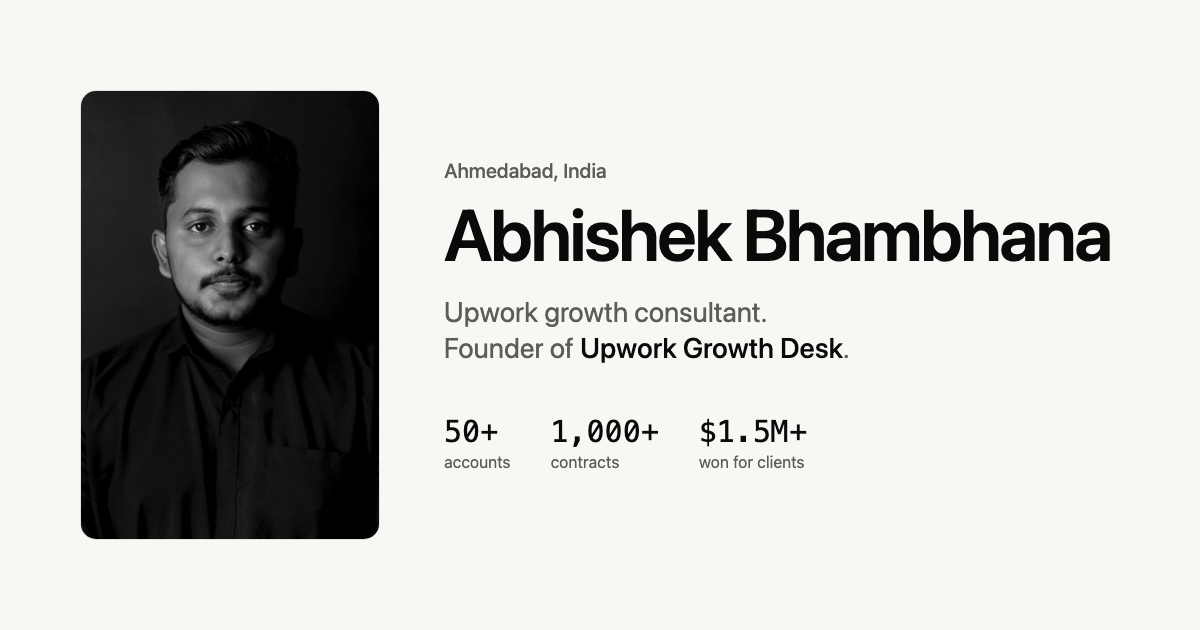
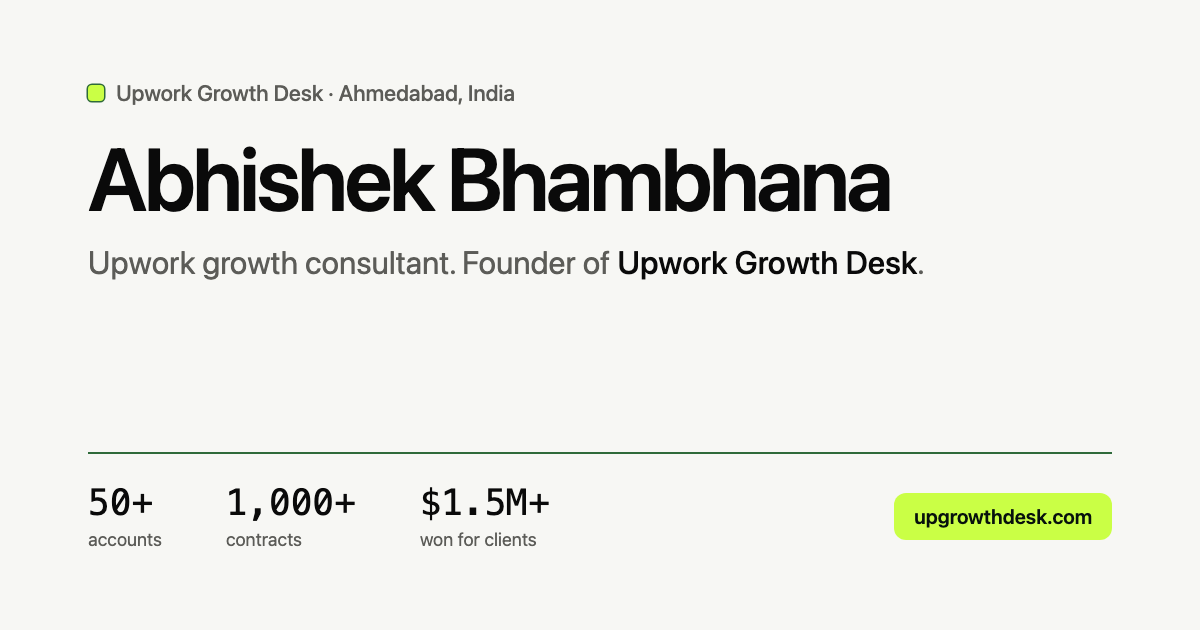
Remove photo, add UGD green accent, Scout card and results graphic

diff --git a/index.html b/index.html
@@ -23,7 +23,7 @@
 <meta name="twitter:card" content="summary_large_image">
 <meta name="theme-color" content="#F7F7F4" media="(prefers-color-scheme: light)">
 <meta name="theme-color" content="#131209" media="(prefers-color-scheme: dark)">
-<link rel="icon" href="assets/abhishek-bhambhana-square.jpg">
+<link rel="icon" href="assets/mark.svg" type="image/svg+xml">
 <link rel="preconnect" href="https://fonts.googleapis.com">
 <link rel="preconnect" href="https://fonts.gstatic.com" crossorigin>
 <link href="https://fonts.googleapis.com/css2?family=Geist:wght@400;500;600&family=Geist+Mono:wght@400;500&display=swap" rel="stylesheet">
@@ -39,7 +39,6 @@
       "familyName": "Bhambhana",
       "jobTitle": "Upwork Growth Consultant and Founder of Upwork Growth Desk",
       "description": "Upwork growth consultant and founder of Upwork Growth Desk, based in Ahmedabad, India. Has run Upwork accounts since 2019: 50+ accounts, 1,000+ contracts, $1.5M+ won for clients. Previously in go to market and tech sales, including fundraising work at MonkeyBox and growth and investor work at UnitPay.",
-      "image": "https://abhishekbhambhana.github.io/assets/abhishek-bhambhana.jpg",
       "url": "https://abhishekbhambhana.github.io/",
       "address": {"@type": "PostalAddress", "addressLocality": "Ahmedabad", "addressRegion": "Gujarat", "addressCountry": "IN"},
       "worksFor": {"@id": "https://upgrowthdesk.com/#org"},
@@ -94,19 +93,19 @@
 <style>
 :root{
   --bg:#F7F7F4; --surface:#FFFFFF; --ink:#0A0A0A; --muted:#5C5C58; --faint:#8A8A85; --line:#E3E3DE;
-  --head-from:#000000; --head-to:#666666; --accent:#FF5A1F;
+  --head-from:#000000; --head-to:#666666; --accent:#2F6A3A; --lime:#CAFF45; --on-lime:#07110D;
   --ease:cubic-bezier(0.22,1,0.36,1);
   --s1:4px; --s2:8px; --s3:12px; --s4:16px; --s5:24px; --s6:32px; --s7:40px; --s8:48px; --s9:64px; --s10:80px; --s11:96px;
 }
 @media (prefers-color-scheme: dark){
   :root:not([data-theme="light"]){
     --bg:#131209; --surface:#1F1F1F; --ink:#F2F2EE; --muted:#A3A39C; --faint:#76766F; --line:#313131;
-    --head-from:#FFFFFF; --head-to:#9B9B9B; --accent:#FF6A33;
+    --head-from:#FFFFFF; --head-to:#9B9B9B; --accent:#CAFF45; --lime:#CAFF45; --on-lime:#07110D;
   }
 }
 :root[data-theme="dark"]{
   --bg:#131209; --surface:#1F1F1F; --ink:#F2F2EE; --muted:#A3A39C; --faint:#76766F; --line:#313131;
-  --head-from:#FFFFFF; --head-to:#9B9B9B; --accent:#FF6A33;
+  --head-from:#FFFFFF; --head-to:#9B9B9B; --accent:#CAFF45; --lime:#CAFF45; --on-lime:#07110D;
 }
 *{box-sizing:border-box;margin:0;padding:0}
 html{scroll-behavior:smooth;-webkit-text-size-adjust:100%}
@@ -139,7 +138,8 @@ p,li,dd{text-wrap:pretty}
 
 /* nav */
 .nav{position:fixed;top:var(--s4);left:50%;transform:translateX(-50%);z-index:50;display:flex;align-items:center;gap:var(--s5);padding:var(--s2) var(--s2) var(--s2) var(--s4);border:1px solid var(--line);border-radius:16px;background:color-mix(in srgb,var(--bg) 78%,transparent);backdrop-filter:blur(14px);-webkit-backdrop-filter:blur(14px);white-space:nowrap}
-.nav .name{text-decoration:none}
+.nav .name{text-decoration:none;display:inline-flex;align-items:center;gap:var(--s2)}
+.mk{width:10px;height:10px;border-radius:3px;background:var(--lime);box-shadow:0 0 0 1px var(--accent)}
 .nav ul{display:flex;gap:var(--s4);list-style:none}
 .nav ul a{white-space:nowrap;color:var(--muted);text-decoration:none;transition:color 200ms var(--ease)}
 .nav ul a:hover{color:var(--ink)}
@@ -152,7 +152,7 @@ p,li,dd{text-wrap:pretty}
 
 /* hero */
 .hero{padding:160px 0 var(--s10)}
-.hero-grid{display:grid;grid-template-columns:1fr 320px;gap:var(--s9);align-items:end}
+.hero-grid{display:grid;grid-template-columns:1fr 380px;gap:var(--s9);align-items:end}
 .eyebrow{color:var(--muted);margin-bottom:var(--s5)}
 .hero h1{max-width:680px}
 .hero h1 .ln{display:block;overflow:hidden;padding-bottom:6px;margin-bottom:-6px}
@@ -161,8 +161,6 @@ p,li,dd{text-wrap:pretty}
 .hero .sub strong{color:var(--ink);font-weight:500}
 .hero .cta{display:flex;align-items:center;gap:var(--s5);margin-top:var(--s6);flex-wrap:wrap}
 .hero .proof{color:var(--muted);max-width:360px}
-.portrait{border-radius:16px;overflow:hidden;border:1px solid var(--line);background:var(--surface);aspect-ratio:2/3}
-.portrait img{width:100%;height:100%;object-fit:cover}
 .portrait-cap{margin-top:var(--s3);color:var(--faint)}
 
 .stats{display:grid;grid-template-columns:repeat(4,1fr);border:1px solid var(--line);border-radius:16px;background:var(--surface)}
@@ -258,10 +256,6 @@ footer .wrap{display:flex;justify-content:space-between;gap:var(--s4);flex-wrap:
 .js .hero h1 .ln:nth-child(3) .in{animation-delay:300ms}
 @keyframes up{from{opacity:0;transform:translateY(16px)}to{opacity:1;transform:none}}
 @keyframes lineUp{from{transform:translateY(105%)}to{transform:none}}
-.js .portrait{animation:unclip 1100ms var(--ease) 200ms both}
-.js .portrait img{animation:settle 1400ms var(--ease) 200ms both}
-@keyframes unclip{from{clip-path:inset(100% 0 0 0 round 16px)}to{clip-path:inset(0 0 0 0 round 16px)}}
-@keyframes settle{from{transform:scale(1.12)}to{transform:scale(1)}}
 .js .portrait-cap{animation:up 700ms var(--ease) 700ms both}
 
 .marquee{margin-top:var(--s8);overflow:hidden;border-top:1px solid var(--line);border-bottom:1px solid var(--line);-webkit-mask-image:linear-gradient(90deg,transparent,#000 8%,#000 92%,transparent);mask-image:linear-gradient(90deg,transparent,#000 8%,#000 92%,transparent)}
@@ -289,6 +283,51 @@ footer .wrap{display:flex;justify-content:space-between;gap:var(--s4);flex-wrap:
 .process.on .steps li{opacity:1;transform:none}
 .process.on .steps .dot{background:var(--accent);border-color:var(--accent)}
 
+
+/* UGD Scout card */
+.scout{border:1px solid var(--line);border-radius:16px;background:var(--surface);padding:var(--s5);box-shadow:0 1px 0 var(--line),0 24px 48px -32px rgba(7,17,13,.35)}
+.sc-top{display:flex;justify-content:space-between;align-items:center;color:var(--faint);margin-bottom:var(--s4)}
+.sc-brand{display:inline-flex;align-items:center;gap:var(--s2);color:var(--ink);font-weight:600}
+.sc-brand i{width:8px;height:8px;border-radius:2px;background:var(--lime);box-shadow:0 0 0 1px var(--accent)}
+.sc-meta{color:var(--muted);margin-top:var(--s1)}
+.sc-mid{display:grid;grid-template-columns:112px 1fr;gap:var(--s5);align-items:center;margin:var(--s5) 0}
+.ring{position:relative;width:112px;height:112px}
+.ring svg{width:100%;height:100%;transform:rotate(-90deg)}
+.ring circle{fill:none;stroke-width:8}
+.ring .rb{stroke:var(--line)}
+.ring .rf{stroke:var(--accent);stroke-linecap:round;stroke-dasharray:100;stroke-dashoffset:13}
+.rn{position:absolute;inset:0;display:flex;align-items:baseline;justify-content:center;padding-top:38px;gap:2px}
+.rn .mono{font-size:30px;line-height:36px;font-weight:500}
+.rn small{color:var(--faint)}
+.sc-bars{list-style:none;display:flex;flex-direction:column;gap:var(--s3)}
+.sc-bars li{display:grid;grid-template-columns:48px 1fr 24px;gap:var(--s2);align-items:center;color:var(--muted)}
+.bt{height:6px;border-radius:3px;background:var(--line);overflow:hidden}
+.bf{display:block;height:100%;width:var(--v);background:var(--accent);border-radius:3px;transform-origin:left}
+.bv{text-align:right;color:var(--ink)}
+.sc-foot{display:flex;justify-content:space-between;align-items:center;gap:var(--s3);flex-wrap:wrap;padding-top:var(--s4);border-top:1px solid var(--line)}
+.chip{background:var(--lime);color:var(--on-lime);padding:var(--s1) var(--s3);border-radius:8px}
+.sc-next{color:var(--muted)}
+.js .scout{animation:up 900ms var(--ease) 260ms both}
+.js .ring .rf{animation:ring 1400ms var(--ease) 700ms both}
+@keyframes ring{from{stroke-dashoffset:100}to{stroke-dashoffset:13}}
+.js .bf{animation:bar 1000ms var(--ease) both;animation-delay:calc(800ms + var(--i) * 90ms)}
+@keyframes bar{from{transform:scaleX(0)}to{transform:scaleX(1)}}
+.js .chip{animation:pop 500ms var(--ease) 1700ms both}
+@keyframes pop{from{opacity:0;transform:scale(.92)}to{opacity:1;transform:none}}
+
+/* results */
+.results{margin-top:var(--s6);border:1px solid var(--line);border-radius:16px;background:var(--surface);padding:var(--s5);display:flex;flex-direction:column;gap:var(--s5)}
+.rs{display:grid;grid-template-columns:180px 1fr 170px;gap:var(--s4);align-items:center}
+.rs .rl{color:var(--ink)}
+.rs .rv{color:var(--ink);text-align:right;font-size:14px;white-space:nowrap}
+.rbars{display:flex;flex-direction:column;gap:6px}
+.rbars span{display:block;height:8px;border-radius:4px;transform-origin:left;transform:scaleX(0);transition:transform 1100ms var(--ease)}
+.rbars .b0{background:var(--line);width:var(--a)}
+.rbars .b1{background:var(--accent);width:var(--b);transition-delay:250ms}
+.reveal.in .rbars span,.no-js .rbars span{transform:scaleX(1)}
+.rkey{display:flex;gap:var(--s4);color:var(--faint)}
+.rkey i{display:inline-block;width:10px;height:10px;border-radius:2px;margin-right:6px;vertical-align:-1px}
+
 /* reveal */
 .reveal{opacity:0;transform:translateY(32px);transition:opacity 700ms var(--ease),transform 700ms var(--ease)}
 .reveal.in{opacity:1;transform:none}
@@ -296,7 +335,7 @@ footer .wrap{display:flex;justify-content:space-between;gap:var(--s4);flex-wrap:
 
 @media (max-width:900px){
   .hero-grid{grid-template-columns:1fr;gap:var(--s7)}
-  .portrait{max-width:280px;order:-1}
+  .scout-wrap{max-width:420px}
   .block-grid{grid-template-columns:1fr;gap:var(--s4)}
   .label{position:static}
   .quotes{grid-template-columns:1fr}
@@ -313,6 +352,11 @@ footer .wrap{display:flex;justify-content:space-between;gap:var(--s4);flex-wrap:
   .stat:nth-child(n+3){border-top:1px solid var(--line)}
   .repos{grid-template-columns:1fr}
   .rows li{grid-template-columns:1fr;gap:var(--s1)}
+  .rs{grid-template-columns:1fr;gap:var(--s2)}
+  .rs .rv{text-align:left}
+  .sc-mid{grid-template-columns:96px 1fr}
+  .ring{width:96px;height:96px}
+  .rn{padding-top:30px}
   section.block{padding:var(--s9) 0}
   .nav{gap:var(--s3)}
   .steps{grid-template-columns:1fr;gap:var(--s5);padding-left:var(--s6)}
@@ -323,7 +367,7 @@ footer .wrap{display:flex;justify-content:space-between;gap:var(--s4);flex-wrap:
   .marquee span{font-size:18px;line-height:28px;padding:var(--s4) var(--s5)}
 }
 @media (prefers-reduced-motion: reduce){
-  .js .nav,.js .hero .eyebrow,.js .hero .sub,.js .hero .cta,.js .hero h1 .in,.js .portrait,.js .portrait img,.js .portrait-cap{animation:none}
+  .js .scout,.js .ring .rf,.js .bf,.js .chip,.rbars span,.js .nav,.js .hero .eyebrow,.js .hero .sub,.js .hero .cta,.js .hero h1 .in{animation:none;transition:none;transform:none}
   .marquee .track{animation:none;flex-wrap:wrap;width:auto}
   .marquee .set + .set{display:none}
   .marquee .set{flex-wrap:wrap}
@@ -339,7 +383,7 @@ footer .wrap{display:flex;justify-content:space-between;gap:var(--s4);flex-wrap:
 <a class="skip button-sm" href="#main">Skip to content</a>
 
 <nav class="nav" aria-label="Main">
-  <a class="name title-3" href="#top">Abhishek Bhambhana</a>
+  <a class="name title-3" href="#top"><i class="mk" aria-hidden="true"></i>Abhishek Bhambhana</a>
   <ul class="body-6">
     <li><a href="#upwork">Upwork</a></li>
     <li><a href="#gtm">GTM</a></li>
@@ -363,9 +407,18 @@ footer .wrap{display:flex;justify-content:space-between;gap:var(--s4);flex-wrap:
           <p class="proof body-6">"We significantly grew our account, exceeding $100K in revenue." <br>Vijay Gorfad, founder of UnitPay</p>
         </div>
       </div>
-      <figure>
-        <div class="portrait"><img src="assets/abhishek-bhambhana.jpg" width="426" height="640" alt="Portrait of Abhishek Bhambhana"></div>
-        <figcaption class="portrait-cap caption-4">Founder, Upwork Growth Desk</figcaption>
+      <figure class="scout-wrap">
+        <div class="scout" role="img" aria-label="Example of UGD Scout scoring an Upwork job: 87 out of 100, worth a Connect">
+          <div class="sc-top caption-4"><span class="sc-brand"><i></i>UGD Scout</span><span class="sc-ex">Example job</span></div>
+          <p class="sc-title title-3">Senior MERN developer for a SaaS dashboard</p>
+          <p class="sc-meta caption-4">Payment verified &middot; $48K spent &middot; 4.9 rating &middot; 12 hires</p>
+          <div class="sc-mid">
+            <div class="ring"><svg viewBox="0 0 120 120" aria-hidden="true"><circle cx="60" cy="60" r="52" class="rb"/><circle cx="60" cy="60" r="52" class="rf" pathLength="100"/></svg><div class="rn"><span class="mono" data-count="87" data-auto>87</span><small class="caption-4">/100</small></div></div>
+            <ul class="sc-bars caption-4"><li style="--v:92%;--i:0"><span class="bl">Client</span><span class="bt"><span class="bf"></span></span><span class="bv mono">92</span></li><li style="--v:80%;--i:1"><span class="bl">Budget</span><span class="bt"><span class="bf"></span></span><span class="bv mono">80</span></li><li style="--v:88%;--i:2"><span class="bl">Intent</span><span class="bt"><span class="bf"></span></span><span class="bv mono">88</span></li><li style="--v:86%;--i:3"><span class="bl">Fit</span><span class="bt"><span class="bf"></span></span><span class="bv mono">86</span></li></ul>
+          </div>
+          <div class="sc-foot"><span class="chip button-sm">Worth a Connect</span><span class="caption-4 sc-next">Draft in UGD Autopilot &rarr;</span></div>
+        </div>
+        <figcaption class="portrait-cap caption-4">UGD Scout, the Chrome extension we built to score Upwork jobs. Example data.</figcaption>
       </figure>
     </div>
   </div>
@@ -417,6 +470,12 @@ footer .wrap{display:flex;justify-content:space-between;gap:var(--s4);flex-wrap:
       <h2 class="heading-4" id="h-gtm">Go to market, from zero</h2>
       <p class="body-3">From December 2024 to March 2025 I worked as a fractional head of sales for five early startups. Each one needed the same first things: a clear picture of who buys, a cold email and LinkedIn routine someone could actually keep up, and a discovery call that ends with a next step.</p>
       <p class="body-3">Across the five, leads went up by about half and sales cycles got <strong>30 to 45% shorter</strong>. One of them grew revenue <strong>5x</strong>.</p>
+      <div class="results" aria-label="Results across five startups">
+        <div class="rs"><span class="rl title-3">Leads</span><span class="rbars"><span class="b0" style="--a:62%"></span><span class="b1" style="--b:93%"></span></span><span class="rv mono">+50%</span></div>
+        <div class="rs"><span class="rl title-3">Sales cycle</span><span class="rbars"><span class="b0" style="--a:90%"></span><span class="b1" style="--b:56%"></span></span><span class="rv mono">30 to 45% shorter</span></div>
+        <div class="rs"><span class="rl title-3">Revenue, one startup</span><span class="rbars"><span class="b0" style="--a:19%"></span><span class="b1" style="--b:95%"></span></span><span class="rv mono">5x</span></div>
+        <div class="rkey caption-4"><span><i style="background:var(--line)"></i>Before</span><span><i style="background:var(--accent)"></i>After</span></div>
+      </div>
       <article class="case">
         <div class="top"><h3 class="heading-6">UnitPay</h3><span class="meta caption-4">Reporting to founder Vijay Gorfad</span></div>
         <p class="body-3">At UnitPay I worked on growth and sales end to end. I decided which channels deserved our time, tightened the sales cycle from first reply to signed contract, and worked on the investor side: the pitch story, the decks, and the conversations around them.</p>
@@ -591,7 +650,8 @@ document.documentElement.classList.add('js');
     }
     requestAnimationFrame(frame);
   }
-  var nums = document.querySelectorAll('[data-count]');
+  var nums = document.querySelectorAll('.stats [data-count]');
+  var auto = document.querySelector('[data-auto]'); if (auto && !reduce){ auto.textContent='0'; setTimeout(function(){ count(auto); }, 700); }
   var proc = document.querySelector('.process');
   if ('IntersectionObserver' in window) {
     var io2 = new IntersectionObserver(function(entries){
